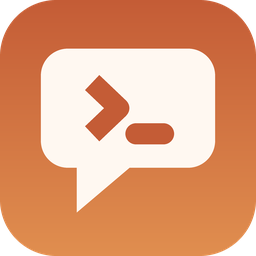
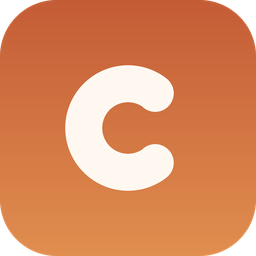
design: redraw the app mark as a proper letterform
The `>_`-in-a-bubble mark was serviceable but fussy, and at 16px the prompt
glyph was mush. Replaced with a single bold open "C" on the same warm clay
tile: one shape, a generous counter, and rounded terminals, which is what
survives being drawn at launcher size.

Two drawing details worth keeping: PIL strokes `arc` inward from the
bounding box, so terminal caps belong on the band's centreline at
r - stroke/2 — centred on r they sit proud and read as knobs. And the mouth
has to be wide (roughly 100°), or downsampling silts it up into a blob.

The palette stays in the warm-terracotta family the tool is expected to sit
in, but the geometry is our own. Anthropic's Claude logo is a trademark and
this is an unofficial client, so the mark deliberately resembles no
Anthropic glyph — wearing the official one would imply an endorsement that
does not exist.

Generating now also writes src/assets/openclaude.png, so the in-window mark
cannot drift from the packaged icons the way it silently would before.

Changed region(s): [[0.1562, 0.1875, 0.8438, 0.8438]]

diff --git a/scripts/generate-icons.py b/scripts/generate-icons.py
@@ -1,9 +1,15 @@
 #!/usr/bin/env python3
 """Generate OpenClaude Desktop application icons.
 
-Original artwork: a warm rounded tile holding a speech bubble, with a shell
-prompt (`>_`) knocked out of it — conversation plus terminal, which is what
-this client is. Deliberately unrelated to any Anthropic or Claude trademark.
+Original artwork: a warm clay tile holding an open "C" ring with a dot set in
+its mouth — the C for the client, the dot reading as both a cursor and the
+reply coming back.
+
+The palette is deliberately in the warm-terracotta family this kind of tool
+is expected to sit in, but the mark itself is our own geometry. Anthropic's
+Claude logo is a trademark and this is an unofficial client: wearing the
+official mark would imply an endorsement that does not exist, so the shape
+here is drawn from scratch and resembles no Anthropic glyph.
 
 Designed for the sizes that actually matter. A dock or task switcher shows
 this at 16-64px, so the mark is a single bold shape rather than fine detail:
@@ -20,6 +26,8 @@ import os
 
 S = 8  # supersample factor
 OUT = os.path.join(os.path.dirname(__file__), "..", "src-tauri", "icons")
+# The window UI shows the mark too, and Vite cannot import from src-tauri.
+UI_ASSET = os.path.join(os.path.dirname(__file__), "..", "src", "assets", "openclaude.png")
 
 BG_TOP = (196, 92, 54)    # clay
 BG_BOT = (224, 142, 79)   # warm amber
@@ -50,23 +58,28 @@ def render(px):
     img = gradient_tile(n)
     g = ImageDraw.Draw(img)
 
-    # Speech bubble, deliberately large so the mark survives downsampling.
-    left, top, right, bottom = n * 0.16, n * 0.19, n * 0.84, n * 0.655
-    g.rounded_rectangle([left, top, right, bottom], radius=n * 0.105, fill=INK)
-    g.polygon([(n * 0.30, bottom - n * 0.02),
-               (n * 0.30, n * 0.83),
-               (n * 0.53, bottom - n * 0.02)], fill=INK)
+    # An open ring. Thick enough that the counter survives downsampling to
+    # 16px, with a generous mouth: a narrow gap silts up and the letter reads
+    # as a solid blob.
+    import math
+    cx, cy = n * 0.5, n * 0.5
+    r = n * 0.245
+    stroke = n * 0.145
+    box = [cx - r, cy - r, cx + r, cy + r]
+    # PIL measures clockwise from 3 o'clock, so this leaves the right open.
+    start, end = 52, 308
+    g.arc(box, start=start, end=end, fill=INK, width=int(stroke))
 
-    # The prompt: a chevron and an underscore, knocked out in the tile colour.
-    cy = (top + bottom) / 2
-    cx = n * 0.36
-    stroke = n * 0.082
-    arm = n * 0.100
-    g.line([(cx, cy - arm), (cx + arm * 1.05, cy), (cx, cy + arm)],
-           fill=BG_TOP, width=int(stroke), joint="curve")
-    ux = cx + arm * 1.05 + n * 0.025
-    g.rounded_rectangle([ux, cy + arm - stroke / 2, ux + n * 0.19, cy + arm + stroke / 2],
-                        radius=stroke / 2, fill=BG_TOP)
+    # Rounded terminals — `arc` leaves square ends, which read as a cut pipe
+    # rather than a drawn letter. PIL strokes *inward* from the bounding box,
+    # so the band's centreline is at r - stroke/2; a cap centred on r instead
+    # sits proud of it and reads as a knob.
+    rc = r - stroke / 2
+    for angle in (start, end):
+        a = math.radians(angle)
+        tx, ty = cx + rc * math.cos(a), cy + rc * math.sin(a)
+        g.ellipse([tx - stroke / 2, ty - stroke / 2, tx + stroke / 2, ty + stroke / 2],
+                  fill=INK)
 
     img.putalpha(rounded_mask(n, int(n * 0.22)))
     return img.resize((px, px), Image.LANCZOS)
@@ -90,6 +103,9 @@ def main():
     render(256).save(os.path.join(OUT, "icon.ico"),
                      sizes=[(16, 16), (32, 32), (48, 48), (64, 64), (128, 128), (256, 256)])
     print("  icon.ico         multi-resolution")
+
+    render(256).save(UI_ASSET)
+    print("  src/assets/openclaude.png  256x256")
 
     # Small monochrome-friendly tray glyph.
     render(64).save(os.path.join(OUT, "tray.png"))
